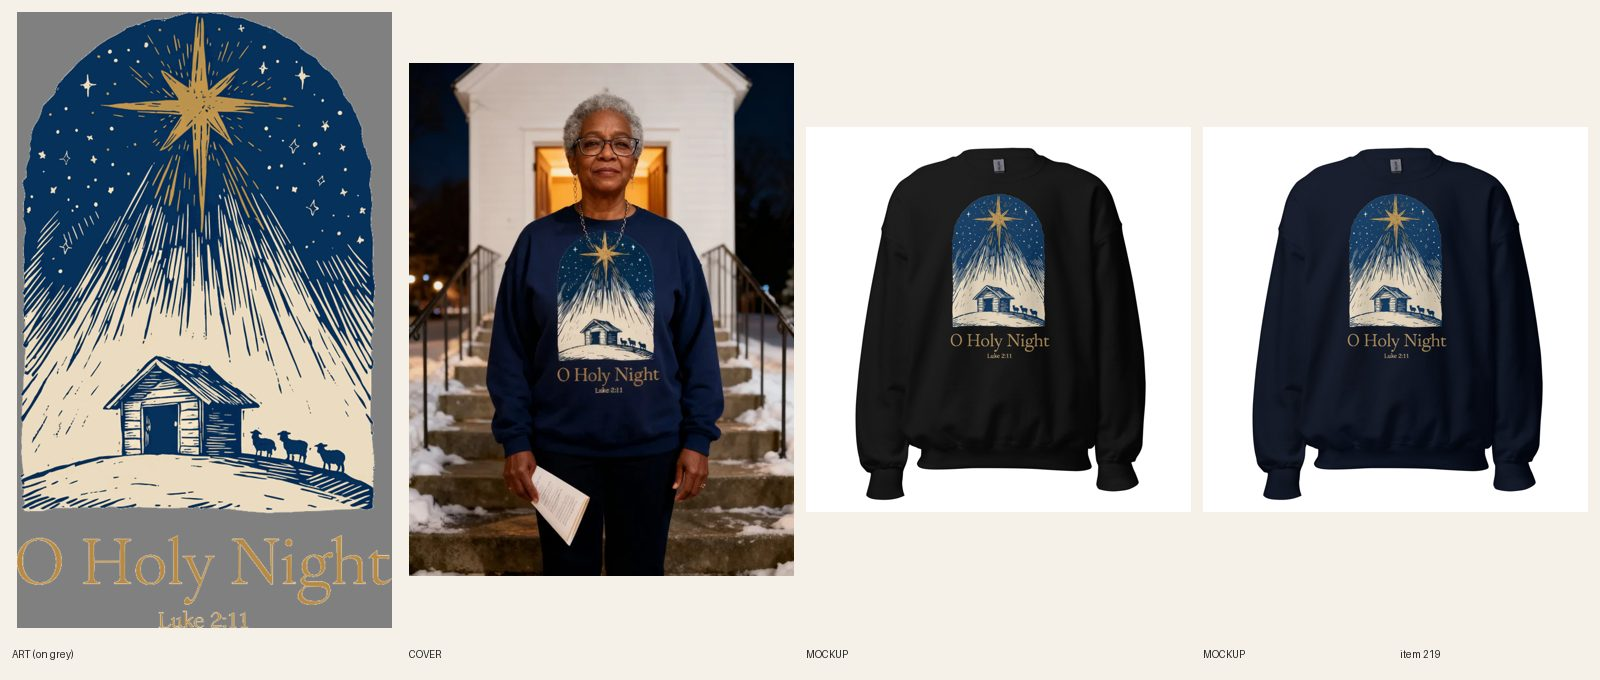
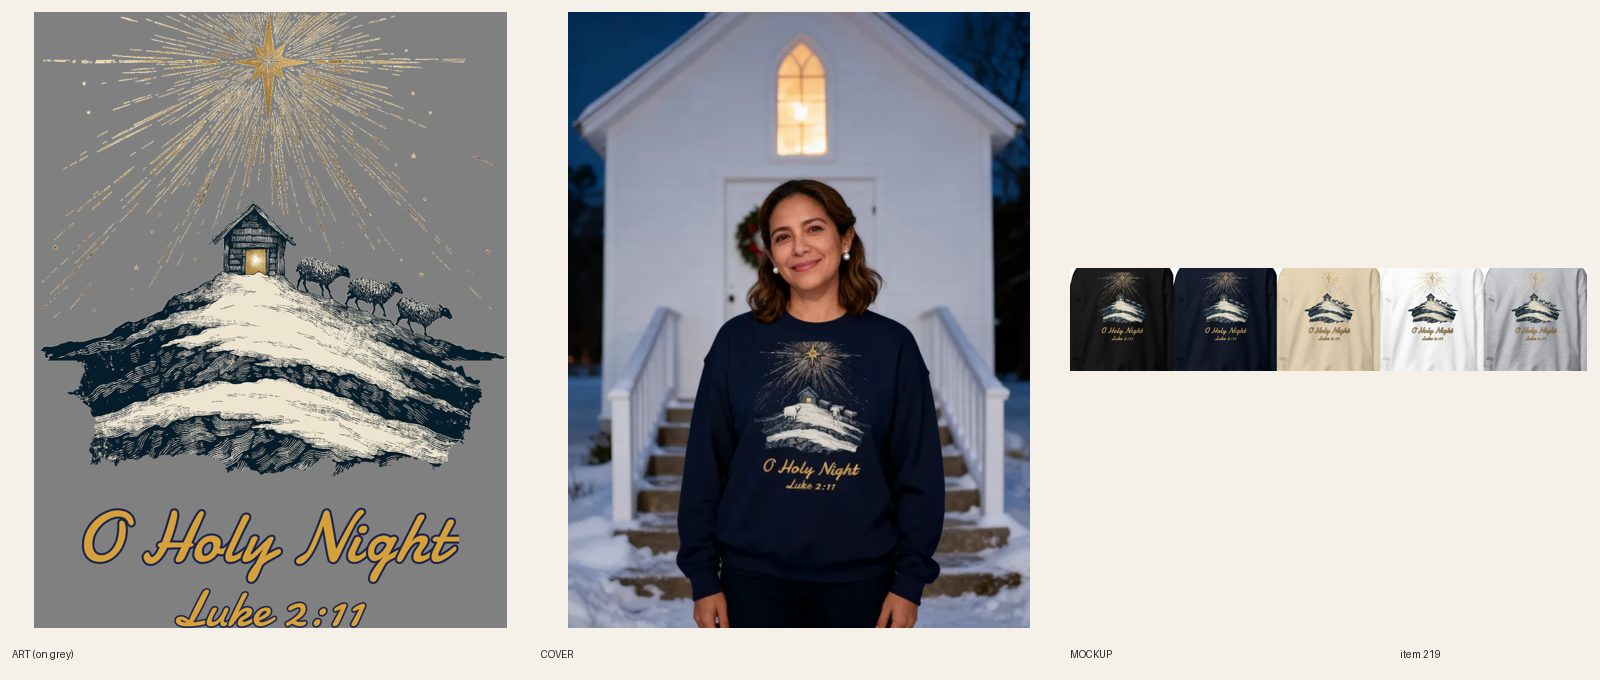
[A] review 216; build 219 O Holy Night crewneck redo (resync running)

diff --git a/src/data/covers.ts b/src/data/covers.ts
@@ -224,7 +224,7 @@ export const covers: Record<string, { src: string; alt: string }> = {
   'womens-christmas-ho-ho-howdy-hoodie': { src: '/covers/womens-christmas-ho-ho-howdy-hoodie.webp', alt: 'Woman in a cowboy hat with a long dark braid in a Navy Ho Ho Howdy cowboy Santa hoodie on a ranch porch with a wreath and hay bales' },
   'womens-christmas-pink-christmas-trees-crewneck-sweatshirt': { src: '/covers/womens-christmas-pink-christmas-trees-crewneck-sweatshirt.webp', alt: 'Woman smiling in front of a gray and peach wall, wearing the light pink Pink Christmas Trees crewneck sweatshirt' },
   'womens-western-howdy-hoodie': { src: '/covers/womens-western-howdy-hoodie.webp', alt: 'Woman in a tan cowgirl hat at a rodeo arena fence at sunset wearing the Howdy navy hoodie with the pink cowgirl hat and steer skull print' },
-  'womens-christmas-o-holy-night-crewneck-sweatshirt': { src: '/covers/womens-christmas-o-holy-night-crewneck-sweatshirt.webp', alt: 'Woman in her late 50s with short grey natural hair and glasses on a chain in a navy O Holy Night crewneck sweatshirt on the snowy steps of a small white church at night, service program in her hand at her side' },
+    'womens-christmas-o-holy-night-crewneck-sweatshirt': { src: '/covers/womens-christmas-o-holy-night-crewneck-sweatshirt.webp', alt: 'Woman in her late 30s with wavy chestnut hair and pearl earrings in a navy O Holy Night crewneck sweatshirt on the snowy steps of a small white church at night' },
   'womens-christmas-lit-up-bow-crewneck-sweatshirt': { src: '/covers/womens-christmas-lit-up-bow-crewneck-sweatshirt.webp', alt: 'Woman in her mid 20s with long dark curls and a gold necklace in a navy All Lit Up bow crewneck sweatshirt in a living room with a lit Christmas tree and bow-topped gifts, hands in her pockets' },
   'unisex-horror-night-shift-oversized-hoodie': { src: '/covers/unisex-horror-night-shift-oversized-hoodie.webp', alt: 'Man and woman in matching black Night Shift oversized hoodies outside a neon-lit small-town movie theater at night' },
   'womens-christmas-christmas-nurse-crewneck-sweatshirt': { src: '/covers/womens-christmas-christmas-nurse-crewneck-sweatshirt.webp', alt: 'Woman in her mid 30s with brown hair in a high ponytail and stud earrings in a cream Nice List Nurse Christmas crewneck sweatshirt in a hospital break room decorated with paper snowflakes and a small tree' },

diff --git a/docs/pipeline/216-christmas-hoodie-hello-winter-snowflakes.md b/docs/pipeline/216-christmas-hoodie-hello-winter-snowflakes.md
@@ -1,4 +1,4 @@
-status: BUILDING [A] 2026-10-17 19:55 UTC
+status: REVIEW
 lane: A
 type: twin
 id: 216
@@ -25,3 +25,4 @@ handle: womens-christmas-hello-winter-snowflakes-hoodie
   2. R4.1: the pale blue disc behind the big snowflake is a background shape. Break it up into scattered snow/worn texture or erase it so the snowflakes are the shape.
   3. R3.1: while you re-letter, the line may take a small twist if one fits (e.g. 'Hello Winter' stays fine as the women's winter line; do not invent a slogan). Re-check light blue art on Sand (R5.3.8).
 - 2026-10-17 19:55 UTC builder [A] REDO 216: (1) R4.1: erased the pale-blue disc (color-keyed large components, no new art). (2) R6.2/R3.7.6: deleted the typeset HELLO WINTER line and set "Hello Winter" in Damion script, navy, 86% of the print width. (3) Reshaped the art for the hoodie: the old file was 3600x5192 at FW 1109 (a width violation, R5.3.2); re-composed the three flakes in a row with re-scattered flecks: 3600x2555 px, printed FW 1650 TOP 0 (about 7.1 in tall, clears the pouch). New Printful file 1088440879. Mockups Sand + Sport Grey read at phone size (navy script and blue flakes read on both). New fal cover (the old one showed the old art): woman (registry 803), Sport Grey hoodie with hood, hands in pocket, Grey mockup as --design, 1 attempt. Copy: art paragraph rewritten (no glow/small spaced capitals), FAQ 5 x 40-60 words incl. Dec 8 order-by, SEO meta. Audit PASS. fal ~$0.03. Printful resync running (12 variants): REVIEW once synced = 12.
+- 2026-10-17 UTC builder [A]: Printful resync complete (12/12 on file 1088440879); REVIEW.

diff --git a/docs/pipeline/219-christmas-o-holy-night-crewneck.md b/docs/pipeline/219-christmas-o-holy-night-crewneck.md
@@ -1,4 +1,4 @@
-status: REDO
+status: BUILDING [A] 2026-10-17 20:40 UTC
 lane: A
 type: twin
 id: 219
@@ -25,3 +25,4 @@ handle: womens-christmas-o-holy-night-crewneck-sweatshirt
   1. R4.1 / R6.2: the arched night-sky panel with a straight bottom edge is a frame/arch shape (the builder flagged it). Twins only from art that passes today's rules: one frameless redraw generation, the star, stable and sheep with the sky breaking up into worn edges, no arch.
   2. R3.7.6: 'O Holy Night' and 'Luke 2:11' are a book serif (typeset). Hand-letter both (vintage hand-drawn serif or script); keep the verse reference readable at phone size.
   The live tee keeps its art (R3.9).
+- 2026-10-17 20:40 UTC builder [A] REDO 219: new frameless art (1 Recraft call, no lettering): gold Star of Bethlehem with thin fading rays, small stable, three sheep on a snowy hill, navy/cream/gold linocut, no arch/panel; the bottom hill's straight cut edges broken with a noise erosion (own script, includes dark linework). 'O Holy Night' and 'Luke 2:11' hand-style script (Damion, gold with navy outline so they read on Navy, Black, Sand, White and Sport Grey). New file 3600x4684 (Printful 1088447320) at FW 1650, TOP 75 (about 14.3 in tall, inside the 16 in area). Mockups checked on all 5 colors (rays faint but readable on Sport Grey). New cover: woman reg 805, navy crewneck, snowy white church steps, 1 attempt. Copy art paragraph and FAQ rewritten (5 x 40-60 words, Dec 8). Resync of 30 variants running (FORCE): REVIEW once the log shows 30/30. fal ~$0.08 (art 0.04 + cover).

diff --git a/docs/intake-log.md b/docs/intake-log.md
@@ -1,5 +1,6 @@
 RUNNING lane C since 2026-10-17 19:50 UTC
 2026-10-17 19:42 UTC — [H] Helper run: Telegram inbox empty (getUpdates returned nothing, nothing to consume). Audit (347 products): 8 ERRORs, all price format (./. should be ./-), left for builders; 16 warnings left alone; no meta, SEO or collection errors to fix. Category check (one-time rule, still checking): 0 products without a category (positive control: unisex-halloween-midnight-feature-graphic-tee returns aa-1-13-8). Site freshness: mens-gym-sisyphus-had-bad-programming-graphic-tee, womens-football-mom-promised-to-behave-graphic-tee, womens-bookish-do-not-sell-my-books-crewneck-sweatshirt all 200. Stuck check: none (no BUILDING item older than 3h; all lane locks under 20 min old). Daily summary not due (sent 12:44 UTC). Lock released.
+2026-10-17 19:52 UTC — [A] REVIEW #216 Hello Winter hoodie (REDO fixed: disc erased, script re-lettered, reshaped to FW 1650, new cover).
 2026-10-17 19:48 UTC — [A] REVIEW #205 North Woods Moose hoodie (REDO fixed: re-lettered, new cover, resynced 12/12).
 2026-10-17 19:49 UTC — [E] REVIEW #443 Mothman Light Sleeper hoodie (DRAFT gid 15363700719920, synced 12/12, fal cover 1 image).
 RUNNING lane A since 2026-10-17 19:29 UTC

diff --git a/docs/model-registry.md b/docs/model-registry.md
@@ -586,3 +586,4 @@ Rows 11–43 were re-pointed on 2026-10-08 when the briefs were rewritten from d
 | 802 | Black woman, mid 30s, natural curls under a cream knit beanie, small gold hoops | USED 2026-10-17 — #205 North Woods Moose hoodie cover redo (with #801) |
 | 803 | Korean-American woman, late 20s, sleek black bob with wispy bangs, small pearl studs | USED 2026-10-17 — #216 Hello Winter hoodie cover redo (seedream, 1 attempt) |
 | 804 | Native Hawaiian woman, early 30s, long dark hair in a single braid, small gold hoops, tan cowboy hat | USED 2026-10-17 — #217 Ho Ho Howdy hoodie cover redo (seedream, 2 attempts: try 1 hair covered the first H; try 2 kept, braid just touches the H edge, Santa's face soft) |
+| 805 | Colombian woman, late 30s, shoulder-length wavy chestnut hair, small pearl earrings | USED 2026-10-17 — #219 O Holy Night crewneck cover redo (seedream, 1 attempt) |
